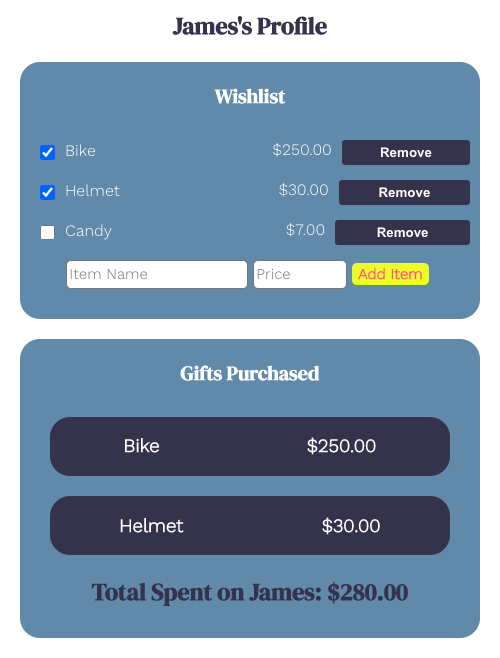
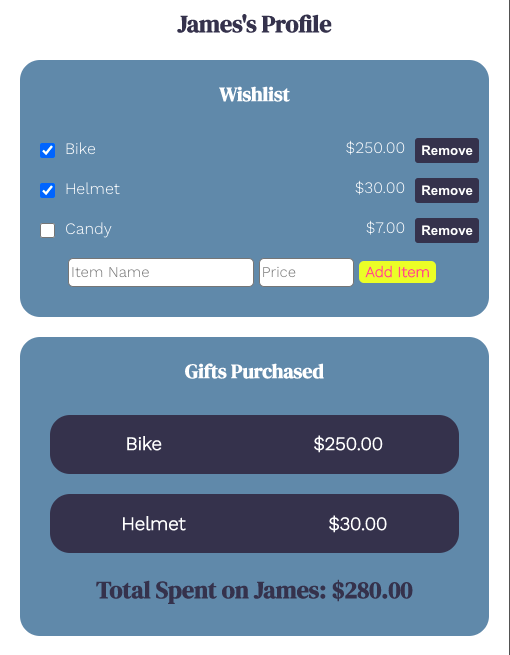
style

diff --git a/build/index.html b/build/index.html
@@ -1,1 +1,1 @@
-<!doctype html><html lang="en"><head><meta charset="utf-8"/><link rel="icon" href="/favicon.ico"/><meta name="viewport" content="width=device-width,initial-scale=1"/><meta name="theme-color" content="#000000"/><meta name="description" content="Web site created using create-react-app"/><link rel="apple-touch-icon" href="/logo192.png"/><link rel="preconnect" href="https://fonts.gstatic.com"><link href="https://fonts.googleapis.com/css2?family=DM+Serif+Display&family=Jost:wght@700&family=Pacifico&family=Work+Sans:wght@300&display=swap" rel="stylesheet"><link rel="manifest" href="/manifest.json"/><title>React App</title><link href="/static/css/main.816b9648.chunk.css" rel="stylesheet"></head><body><noscript>You need to enable JavaScript to run this app.</noscript><div id="root"></div><script>!function(e){function t(t){for(var n,i,p=t[0],f=t[1],l=t[2],c=0,s=[];c<p.length;c++)i=p[c],Object.prototype.hasOwnProperty.call(o,i)&&o[i]&&s.push(o[i][0]),o[i]=0;for(n in f)Object.prototype.hasOwnProperty.call(f,n)&&(e[n]=f[n]);for(a&&a(t);s.length;)s.shift()();return u.push.apply(u,l||[]),r()}function r(){for(var e,t=0;t<u.length;t++){for(var r=u[t],n=!0,p=1;p<r.length;p++){var f=r[p];0!==o[f]&&(n=!1)}n&&(u.splice(t--,1),e=i(i.s=r[0]))}return e}var n={},o={1:0},u=[];function i(t){if(n[t])return n[t].exports;var r=n[t]={i:t,l:!1,exports:{}};return e[t].call(r.exports,r,r.exports,i),r.l=!0,r.exports}i.m=e,i.c=n,i.d=function(e,t,r){i.o(e,t)||Object.defineProperty(e,t,{enumerable:!0,get:r})},i.r=function(e){"undefined"!=typeof Symbol&&Symbol.toStringTag&&Object.defineProperty(e,Symbol.toStringTag,{value:"Module"}),Object.defineProperty(e,"__esModule",{value:!0})},i.t=function(e,t){if(1&t&&(e=i(e)),8&t)return e;if(4&t&&"object"==typeof e&&e&&e.__esModule)return e;var r=Object.create(null);if(i.r(r),Object.defineProperty(r,"default",{enumerable:!0,value:e}),2&t&&"string"!=typeof e)for(var n in e)i.d(r,n,function(t){return e[t]}.bind(null,n));return r},i.n=function(e){var t=e&&e.__esModule?function(){return e.default}:function(){return e};return i.d(t,"a",t),t},i.o=function(e,t){return Object.prototype.hasOwnProperty.call(e,t)},i.p="/";var p=this["webpackJsonpigift-app"]=this["webpackJsonpigift-app"]||[],f=p.push.bind(p);p.push=t,p=p.slice();for(var l=0;l<p.length;l++)t(p[l]);var a=f;r()}([])</script><script src="/static/js/2.a5e6a1c0.chunk.js"></script><script src="/static/js/main.d7550875.chunk.js"></script></body></html>
+<!doctype html><html lang="en"><head><meta charset="utf-8"/><link rel="icon" href="/favicon.ico"/><meta name="viewport" content="width=device-width,initial-scale=1"/><meta name="theme-color" content="#000000"/><meta name="description" content="Web site created using create-react-app"/><link rel="apple-touch-icon" href="/logo192.png"/><link rel="preconnect" href="https://fonts.gstatic.com"><link href="https://fonts.googleapis.com/css2?family=DM+Serif+Display&family=Jost:wght@700&family=Pacifico&family=Work+Sans:wght@300&display=swap" rel="stylesheet"><link rel="manifest" href="/manifest.json"/><title>React App</title><link href="/static/css/main.62392eec.chunk.css" rel="stylesheet"></head><body><noscript>You need to enable JavaScript to run this app.</noscript><div id="root"></div><script>!function(e){function t(t){for(var n,i,p=t[0],f=t[1],l=t[2],c=0,s=[];c<p.length;c++)i=p[c],Object.prototype.hasOwnProperty.call(o,i)&&o[i]&&s.push(o[i][0]),o[i]=0;for(n in f)Object.prototype.hasOwnProperty.call(f,n)&&(e[n]=f[n]);for(a&&a(t);s.length;)s.shift()();return u.push.apply(u,l||[]),r()}function r(){for(var e,t=0;t<u.length;t++){for(var r=u[t],n=!0,p=1;p<r.length;p++){var f=r[p];0!==o[f]&&(n=!1)}n&&(u.splice(t--,1),e=i(i.s=r[0]))}return e}var n={},o={1:0},u=[];function i(t){if(n[t])return n[t].exports;var r=n[t]={i:t,l:!1,exports:{}};return e[t].call(r.exports,r,r.exports,i),r.l=!0,r.exports}i.m=e,i.c=n,i.d=function(e,t,r){i.o(e,t)||Object.defineProperty(e,t,{enumerable:!0,get:r})},i.r=function(e){"undefined"!=typeof Symbol&&Symbol.toStringTag&&Object.defineProperty(e,Symbol.toStringTag,{value:"Module"}),Object.defineProperty(e,"__esModule",{value:!0})},i.t=function(e,t){if(1&t&&(e=i(e)),8&t)return e;if(4&t&&"object"==typeof e&&e&&e.__esModule)return e;var r=Object.create(null);if(i.r(r),Object.defineProperty(r,"default",{enumerable:!0,value:e}),2&t&&"string"!=typeof e)for(var n in e)i.d(r,n,function(t){return e[t]}.bind(null,n));return r},i.n=function(e){var t=e&&e.__esModule?function(){return e.default}:function(){return e};return i.d(t,"a",t),t},i.o=function(e,t){return Object.prototype.hasOwnProperty.call(e,t)},i.p="/";var p=this["webpackJsonpigift-app"]=this["webpackJsonpigift-app"]||[],f=p.push.bind(p);p.push=t,p=p.slice();for(var l=0;l<p.length;l++)t(p[l]);var a=f;r()}([])</script><script src="/static/js/2.a5e6a1c0.chunk.js"></script><script src="/static/js/main.d7550875.chunk.js"></script></body></html>

diff --git a/src/LandingPage/LandingPage.js b/src/LandingPage/LandingPage.js
@@ -6,31 +6,34 @@ import BudgetPageScreenshot from '../images/budget-page-screenshot.png'
 class LandingPage extends Component {
     render() { 
         return (
-            <div>
+            <div className="landing-page">
                 <header>
                     {/* <h1 className="app-name">iGift</h1> */}
                     <h2 className="app-slogan">Gift Smarter.</h2>
                     
                 </header>
-                
-                <section className="budget-section">
-                    <header>
-                        <h3 className="section-header">Set Your Budget!</h3>
-                    </header>
-                    
-                    <p>During the 2019 holiday season, 44% of American consumers went into debt. iGift helps you to be smart 
-                    about your gift-spending by allowing you to set your budget and track it as you spend.</p>
-                    <img className="budget-page-screenshot" src={BudgetPageScreenshot} />
-                </section>
+                <div className="landing-page-sections">
+                    <section className="budget-section">
+                        <header>
+                            <h3 className="section-header">Set Your Budget!</h3>
+                        </header>
+                        <div className="section-content">
+                            <p className="budget-section-description">During the 2019 holiday season, 44% of American consumers went into debt. iGift helps you be smarter
+                            about your gift-spending by allowing you to set your budget and track it as you spend.</p>
+                            <img className="screenshot" src={BudgetPageScreenshot} />
+                        </div>
+                    </section>
 
-                <section className="profile-section">
-                    <header>
-                        <h3 className="section-header">Organize Your Gift-Giving!</h3>
-                    </header>
-                    <p>Create personalized profiles for your friends and family to keep track of potential gift ideas and their prices. Then hit the checkbox for every item that you purchase to see where you stand with your budget!</p>
-                    <img className="profile-page-screenshot" src={ProfilePageScreenshot} />
-                </section>
-                
+                    <section className="profile-section">
+                        <header>
+                            <h3 className="section-header">Organize Your Gift-Giving!</h3>
+                        </header>
+                        <div className="section-content reverse">
+                            <p className="profile-section-description">Create personalized profiles for your friends and family to keep track of potential gift ideas and their prices. Then hit the checkbox for every item that you purchase to see where you stand with your budget!</p>
+                            <img className="screenshot" src={ProfilePageScreenshot} />
+                        </div>
+                    </section>
+                </div>
             </div>
         );
     }

diff --git a/src/LandingPage/LandingPage.css b/src/LandingPage/LandingPage.css
@@ -97,13 +97,71 @@ nav{
     margin: 5px;
 }
 
-.profile-page-screenshot, .budget-page-screenshot {
+.screenshot {
     width: 90%;
     border-radius: 10px;
     border-width: 3px;
     border-style: solid;
     border-color: #f76582;
     margin-top: 20px;
+}
+
+@media all and (min-width: 600px) {
+    .Header{
+        display: flex;
+        justify-content: space-between;
+    }
+    
+    .section-header{
+        font-size: 26px;
+    } 
+
+    .section-content{
+        display: flex;
+    }
+
+    .reverse{
+        flex-direction: row-reverse;
+    }
+
+    p{
+        font-size: 20px;
+    }
+
+    .budget-section-description, .profile-section-description{
+        flex: 2;
+        width: auto;
+        margin-top: 40px;
+        vertical-align: middle;
+    }
+
+    .budget-section-description{
+        margin-right: 20px;
+    }
+
+    .profile-section-description{
+        margin-left: 20px;
+    }
+
+    .screenshot{
+        flex: 3;
+        width: 50%;
+    }
+}
+
+@media all and (min-width: 700px) {
+    p{
+        font-size: 22px;
+    }
+}
+
+@media all and (min-width: 800px) {
+    .section-content{
+        width: 760px;
+        text-align: center;
+        margin-left: auto;
+        margin-right: auto;
+    } 
 }
 
 

diff --git a/src/ProfilePage/ProfilePage.css b/src/ProfilePage/ProfilePage.css
@@ -66,11 +66,28 @@ input{
 }
 
 button.remove-button{
-    flex: 1;
     margin-left: 0;
 }
 
 .total-spent{
     color: #34344A;
     font-family: 'DM Serif Display', serif;
+}
+
+@media all and (min-width: 600px) {
+    .profile-name{
+        font-size: 32px;
+    }
+    label{
+        font-size: 20px;
+    }
+}
+
+@media all and (min-width: 800px) {
+    .profile-wishlist, .profile-total{
+        width: 740px;
+        text-align: center;
+        margin-left: auto;
+        margin-right: auto;
+    }
 }

diff --git a/src/LoginPage/LoginPage.css b/src/LoginPage/LoginPage.css
@@ -15,3 +15,9 @@
     color: white;
     min-height: 100%;
 }
+
+@media all and (min-width: 600px){
+    .login-section, .create-account{
+        padding-bottom: 50px;
+    }
+}
